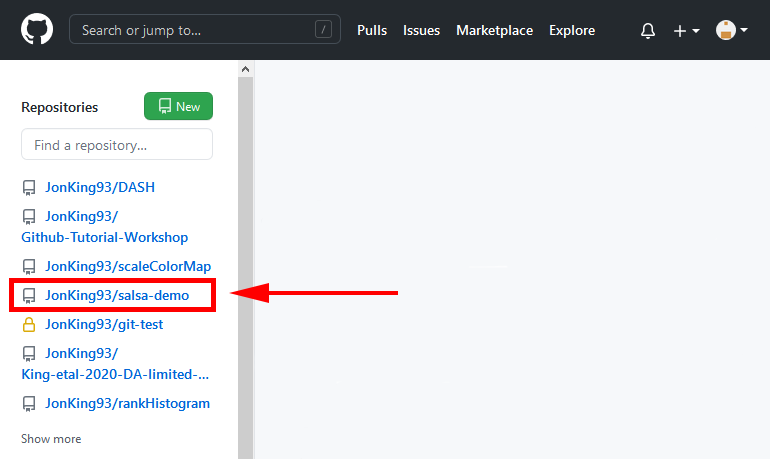
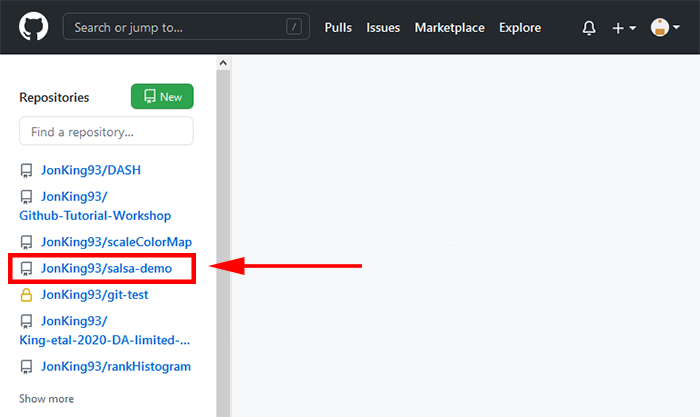
Reduce figure width

diff --git a/workshop/new.md b/workshop/new.md
@@ -25,11 +25,13 @@ A short 1-2 sentence description of the project that will be organized in this r
 
 ### Local Path
 
-When you create the repository for a project, Github will create a folder to store the contents of that project. This field specifies where to save that folder. Choose somewhere easy to access so that you can conveniently return to this project in the future.
+In order to track changes to a project, Github needs the contents of the project to be stored in a folder. This field specifies the location of that folder. You can either create a completely new folder (if building a project from scratch), or specify an existing folder on your computer that already contains a project.
+
+For this workshop, go ahead and create a completely new folder so we can build a repository from scratch. Choose somewhere easy to access so you can return to this project throughout the workshop.
 
 ### Initialize with README
 
-The next option is a checkbox indicating whether to initialize the project with a README file. A readme is a text document that can provide a summary or information about a project. Think of it as analogous to the abstract in a scientific paper. Creating a README is optional, but recommended and common practice with Github. For this workshop, go ahead and select the checkbox so that the repository includes a readme.
+The next option is a checkbox indicating whether to initialize the project with a README file. A readme is a text document that can provide a summary or information about a project. Think of it as analogous to the abstract in a scientific paper. Creating a README is optional, but recommended and common practice with Github. For this workshop, go ahead and select the checkbox so that the repository includes a README.
 
 ### Gitignore
 

diff --git a/workshop/remote.md b/workshop/remote.md
@@ -7,19 +7,21 @@ title: Remote Repository
 
 Let's take a look at the remote repository we just created. Head online and login to your Github account. If you are on the main page, then you should see a list of your repositories on the left side of the screen. For example, here is my account with the demo repository.
 
-<img src="..\assets\images\main-page.png" alt="A list of my remote repositories from the main page." style="max-width:770px;display:block">
+<img src="..\assets\images\main-page.png" alt="A list of my remote repositories from the main page." style="max-width:700px;display:block">
 
 Find your repository and click on it.
 
 Alternatively, if you are on the page for your user account, then click on the "Repositories" tab on the top of the screen.
 
-<img src="..\assets\images\user-page.png" alt="A user account page with repositories tab at the top." style="max-width:905px;display:block">
+<img src="..\assets\images\user-page.png" alt="A user account page with repositories tab at the top." style="max-width:700px;display:block">
 
 You should see a list of your repositories. For example:
 
-<img src="..\assets\images\user-repos.png" alt="A list of my repositories including the demo." style="max-width:905px;display:block">
+<img src="..\assets\images\user-repos.png" alt="A list of my repositories including the demo." style="max-width:700px;display:block">
 
-Find your repository and click on it
+Find your repository and click on it.
+
+# The repository page
 
 
 

diff --git a/workshop/publish.md b/workshop/publish.md
@@ -11,7 +11,7 @@ So you made a repository, nice! Go ahead and navigate to its folder on your comp
 2. A file named .gitattributes
 3. A file named README.md
 
-The first two include various settings and files required to make git and Github work properly. In general, you won't need to interact with them. The file "README.md" is the file created when we selected the README checkbox. The ".md" signifies a "markdown" file, which is a human-readable text file that also supports some formatting options. Go ahead and open it in a text editor if you're curious. You should see the repository name followed by its description.
+The first two include various settings and files required to make git and Github work properly. In general, you won't need to interact with them. The file "README.md" is the file created when we selected the README checkbox. The ".md" signifies a "markdown" file, which is a human-readable text file that also supports some formatting options (like italics, bold, and links). If you're curious, go ahead and open it in a text editor. You should see the repository name followed by its description.
 
 # Publish the new repository to the cloud
 

diff --git a/workshop/overview.md b/workshop/overview.md
@@ -33,7 +33,7 @@ At this point, the commits are only stored on your local computer. So, after mak
 
 ### Additional Commits and Pushes
 
-It's worth noting that you only need to clone the repository once. Once you have a local copy, git will track all changes you make. So you can make additional commits and push them ad infinitum.
+It's worth noting that you only need to clone the repository once. Once you have a local copy, git will track all changes you make, so you can continue make additional commits and pushes quickly and efficiently.
 
 <img src="..\assets\images\continue.svg" alt="Making additional commits and pushes." style="width:100%;display:block">
 
